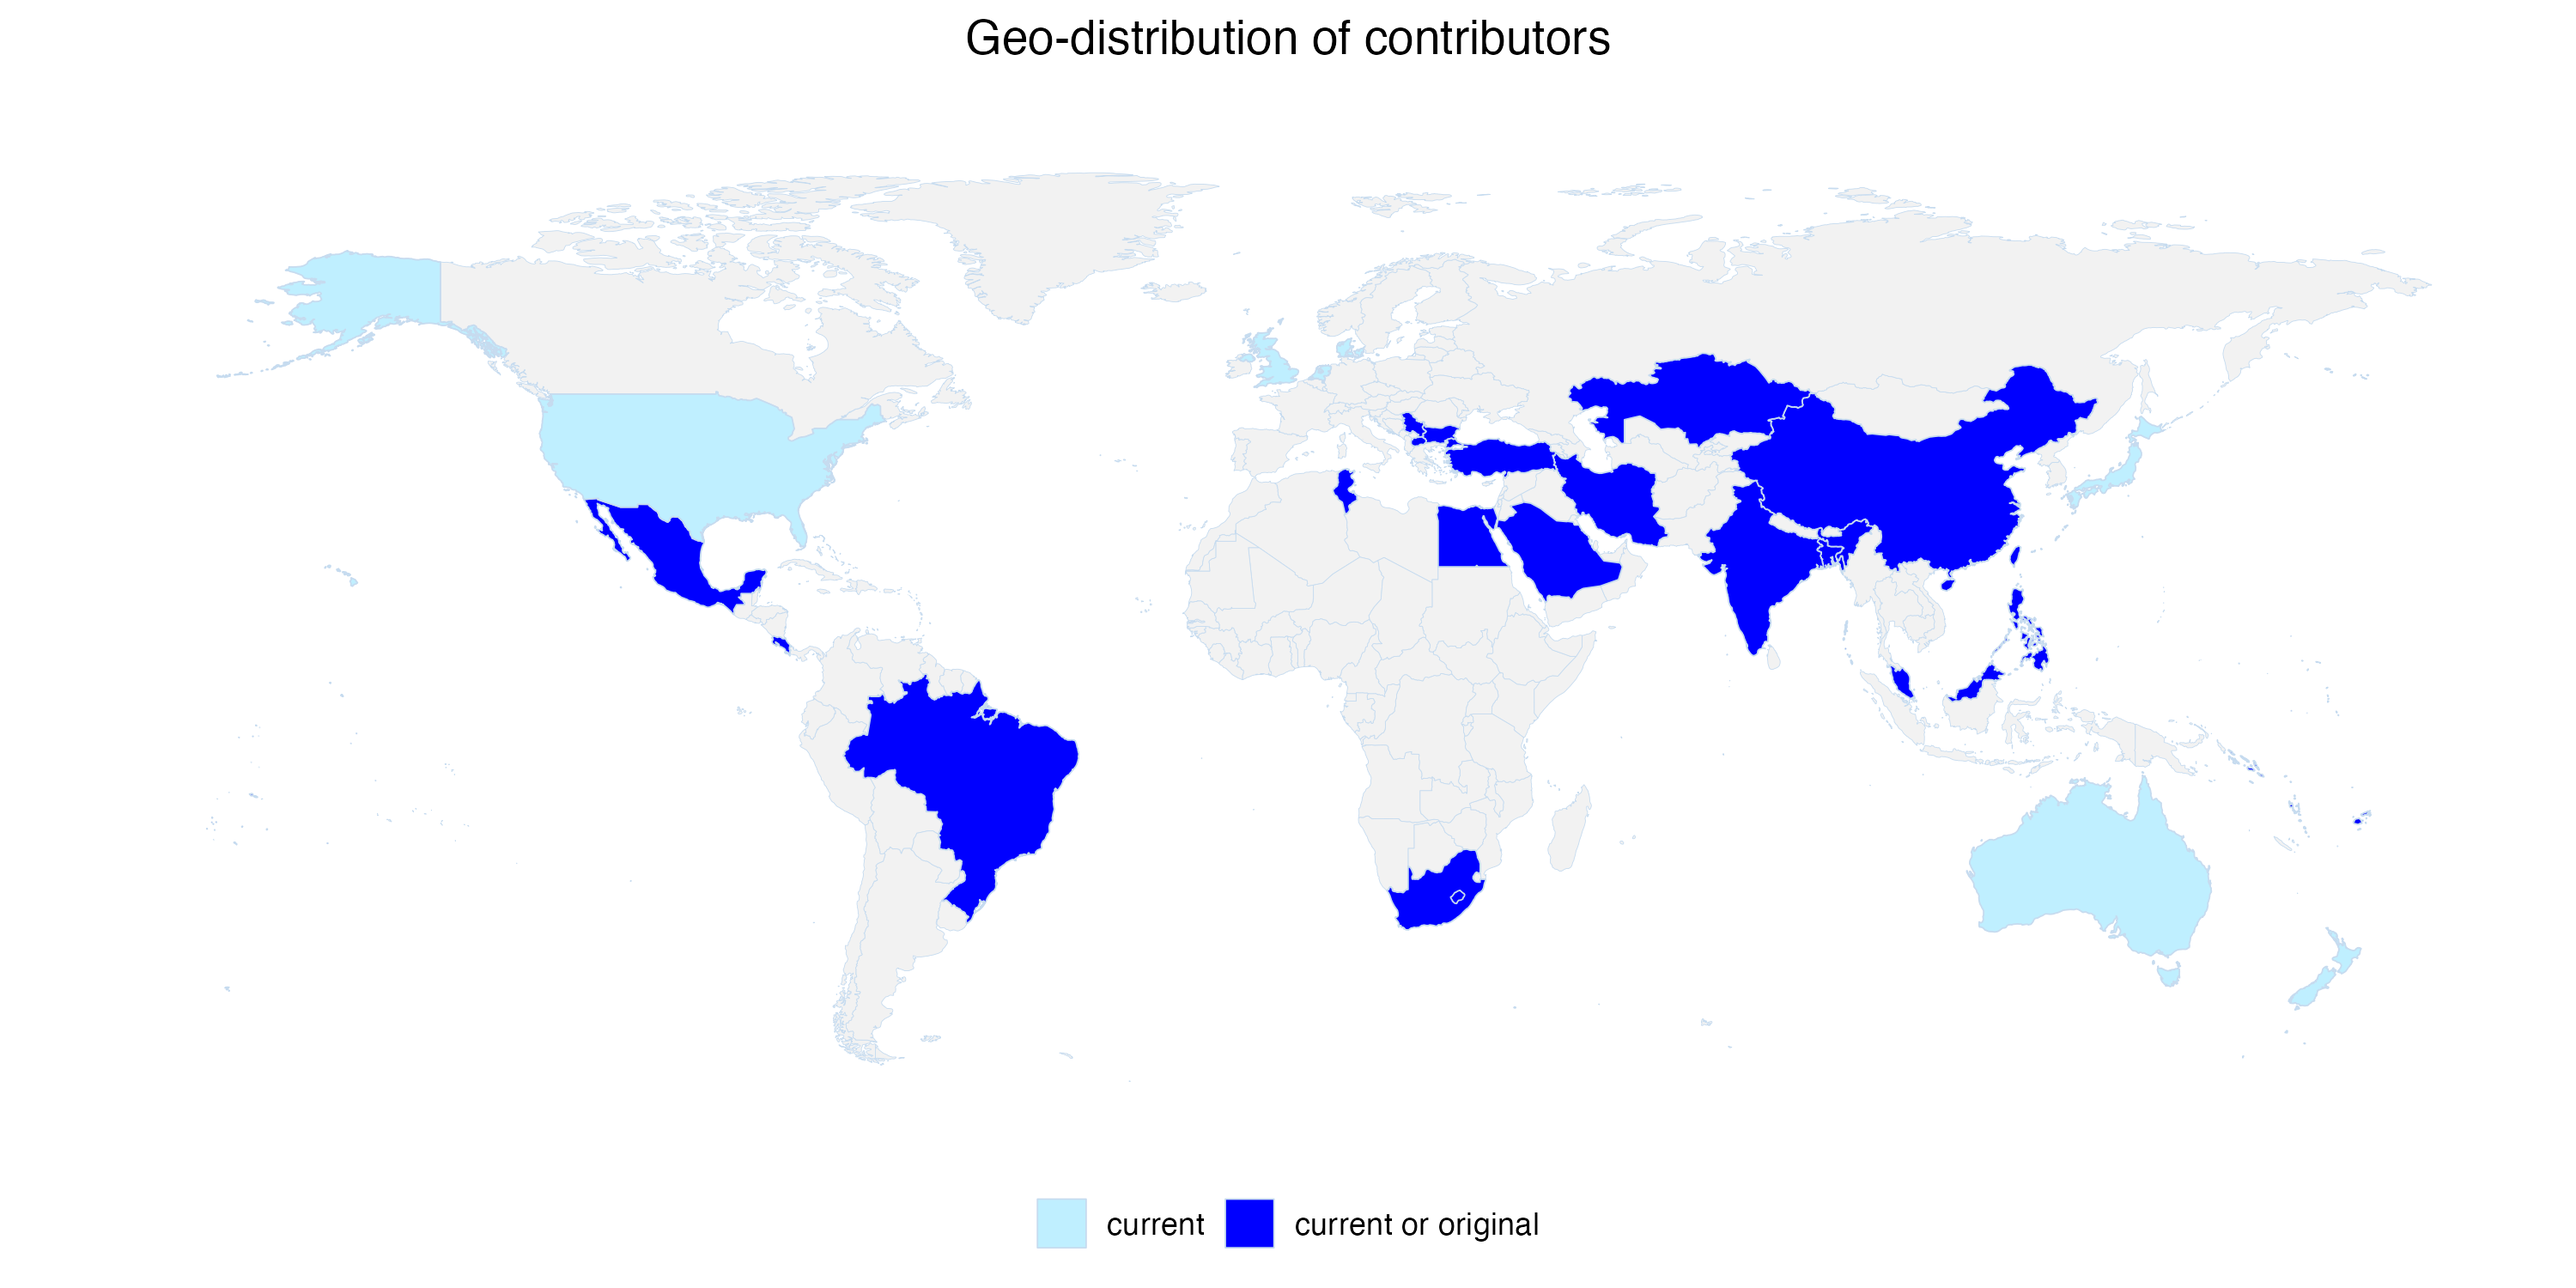
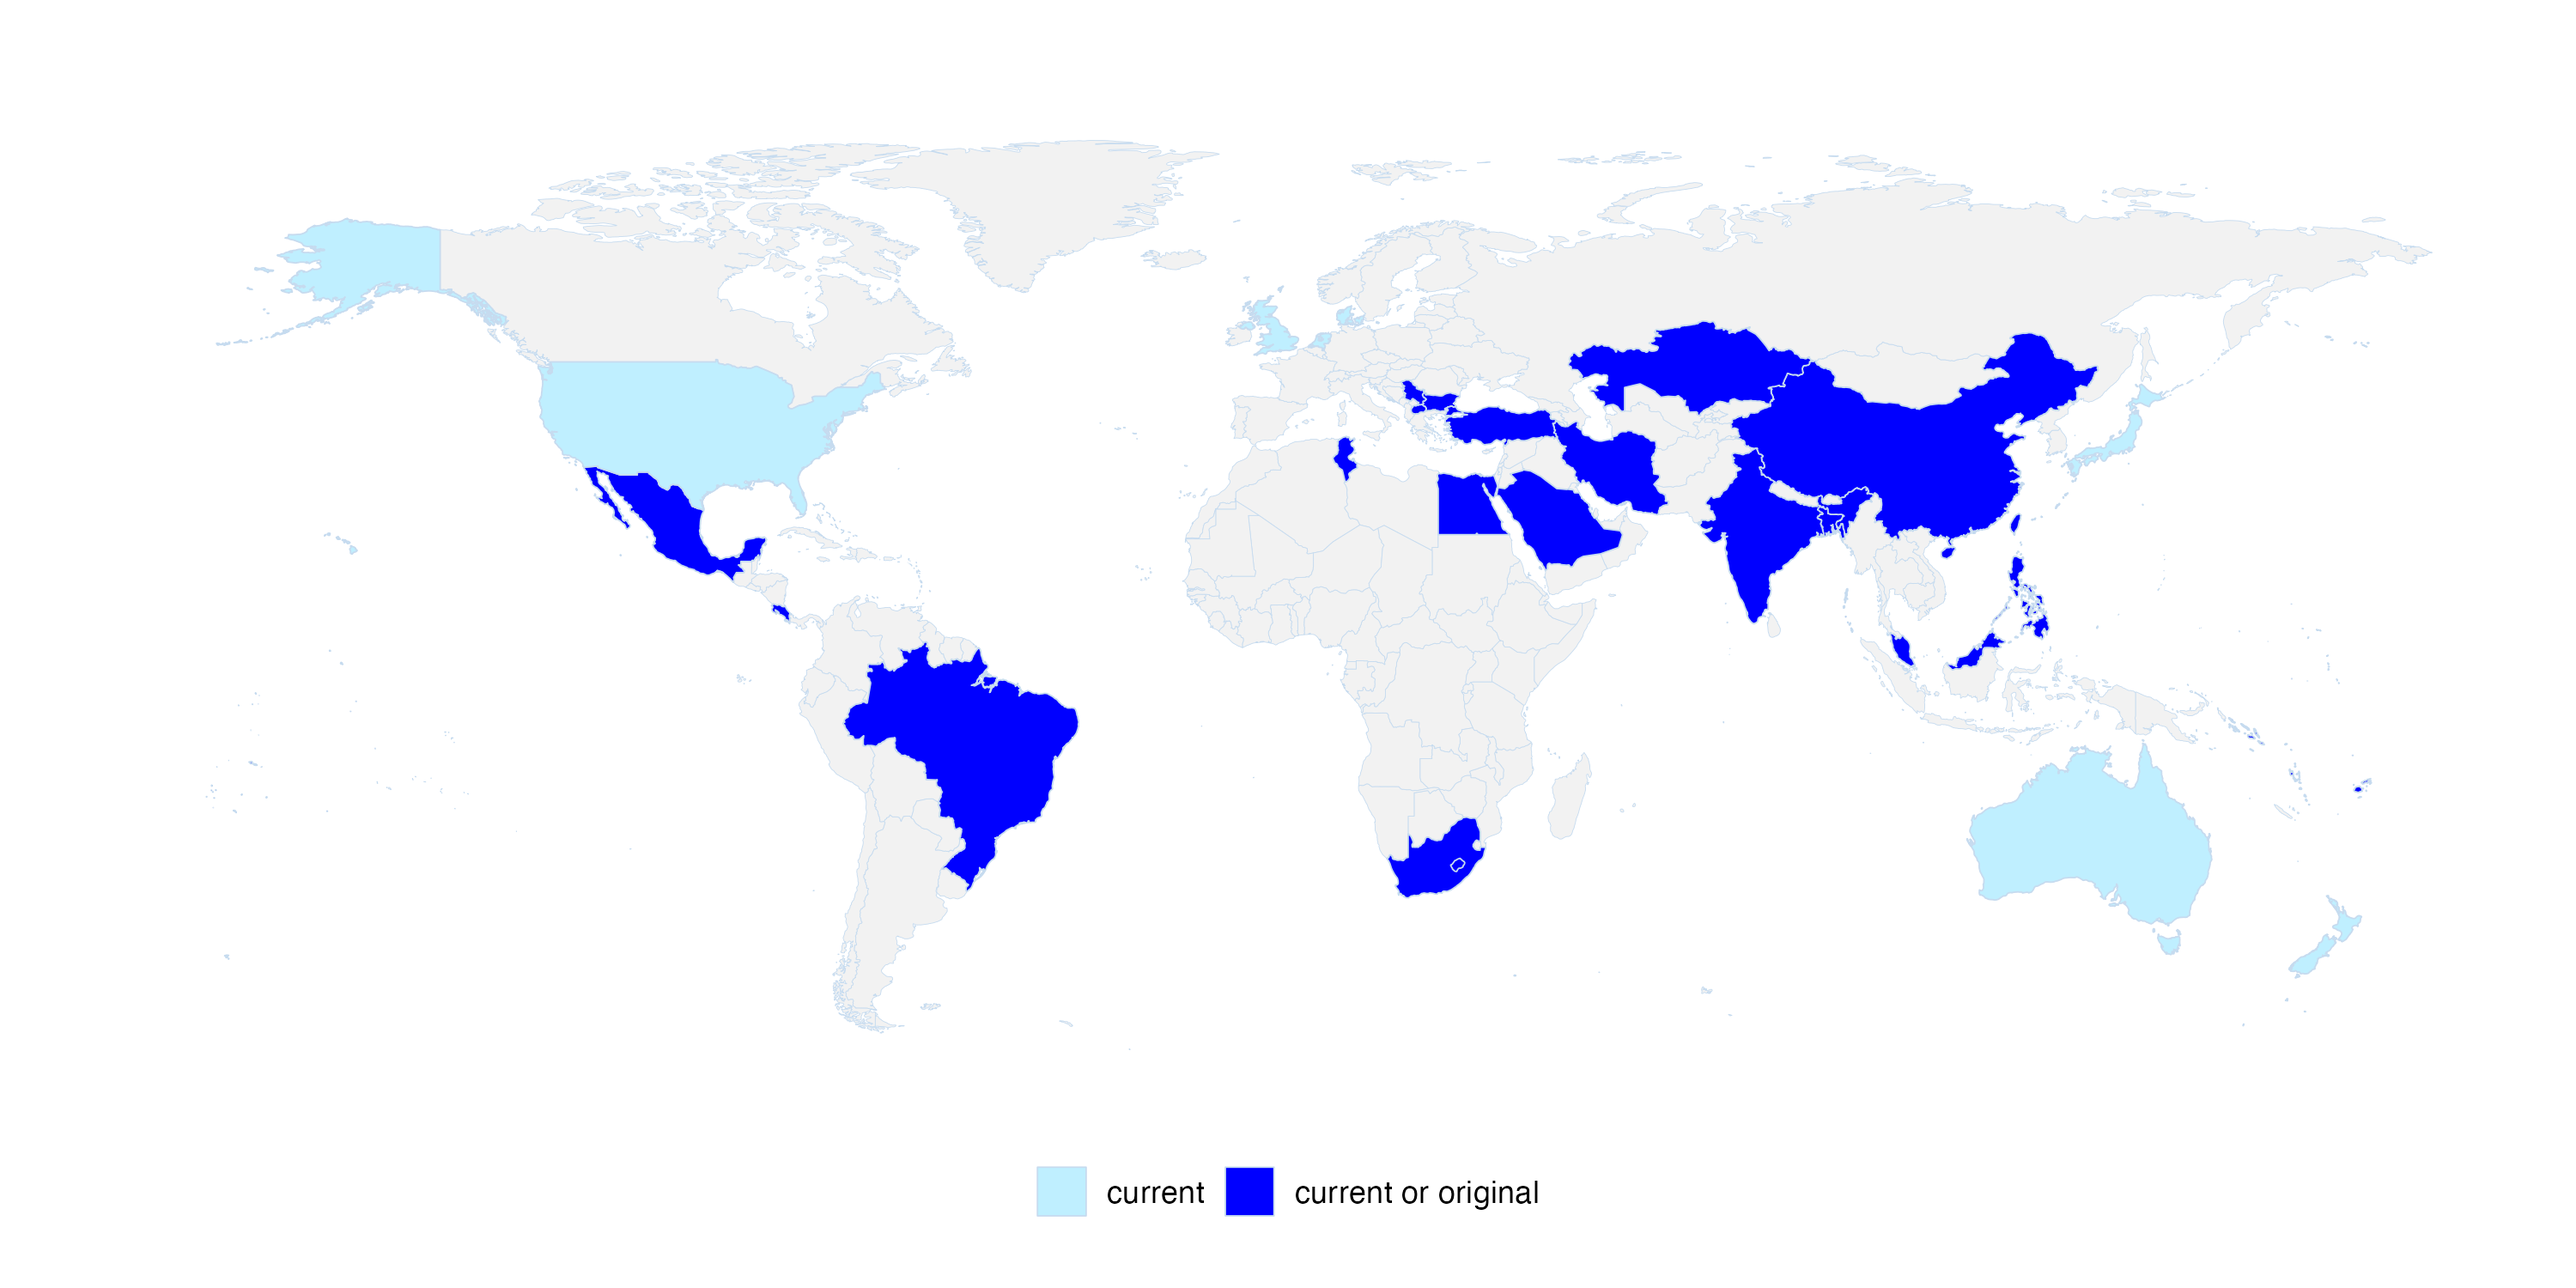
update map and fixed typos

diff --git a/README.md b/README.md
@@ -2,9 +2,9 @@
 
 ## About
 
-This is a collaborative project that will collect practical experiences and guides related to Open Science in Developing countries. The direct output of this project will be a collaborative paper for the journal [Advances in Methods and Practices in Psychological Science (AMPPS)](https://www.psychologicalscience.org/publications/ampps). Utimately, we hope this project will accelerate international collaborations, especially those between researchers from developing countries. Also, we hope the practical guides will help researchers in developing countries to promote and implemente open scinece practices in psychological science and related fields.
+This is a collaborative project that will collect practical experiences and guides related to Open Science in Developing countries. The direct output of this project will be a collaborative paper for the journal [Advances in Methods and Practices in Psychological Science (AMPPS)](https://www.psychologicalscience.org/publications/ampps). Ultimately, we hope this project will accelerate international collaborations, especially those between researchers from developing countries. Also, we hope the practical guides will help researchers in developing countries to promote and implement open science practices in psychological science and related fields.
 
-This project is patnered with [the Chinese Open Science Network](https://open-sci.cn/) and [FORRT](https://forrt.org/)
+This project is partnered with [the Chinese Open Science Network](https://open-sci.cn/) and [FORRT](https://forrt.org/)
 
 ### Contact
 
@@ -12,7 +12,7 @@ Dr. Hu Chuan-Peng, School of Psychology, Nanjing Normal University, Nanjing, Chi
 
 ## Contributors
 
--   49 contributors will cover Open Science related topic from perspective of 12 developing countries.
+-   46 researchers contributed their perspective of open science from 20 developing countries/regions and synthesized this practical guide.
 
 <!-- insert the png figure here: -->
 
@@ -40,4 +40,4 @@ Dr. Hu Chuan-Peng, School of Psychology, Nanjing Normal University, Nanjing, Chi
 
 -   2023-10-23 ｜ Big Team Science Conference 2023 (online) \| \# 24 Featured Panel. See program [here](https://bigteamscienceconference.github.io/program/).
 
-<!-- docker run -e PASSWORD=hulab2022 --cpus=4 --rm -p 8787:8787 -v $PWD:/home/rstudio/work hcp4715/rdock:nhb2024 -->
+<!-- env: run directly on Macbook Pro-->
